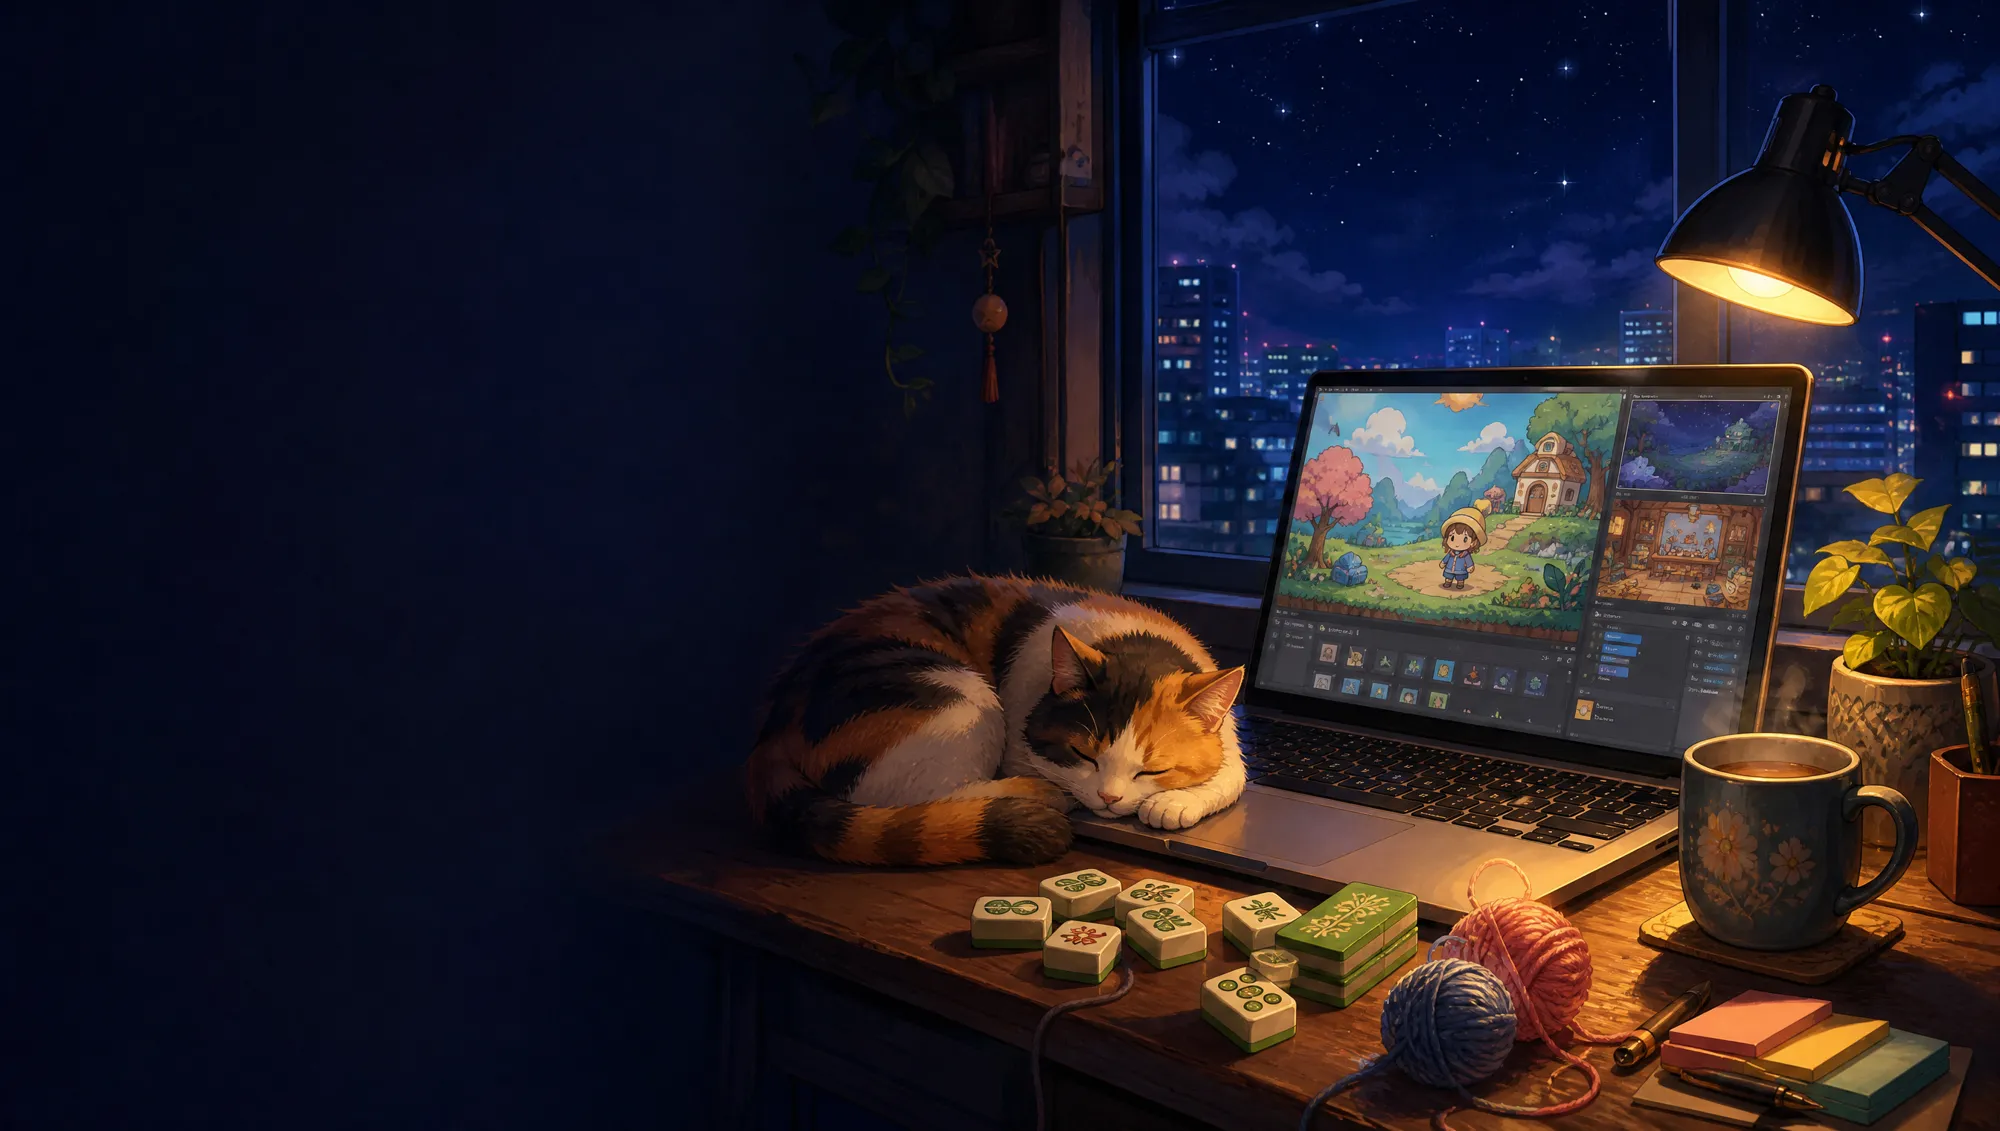
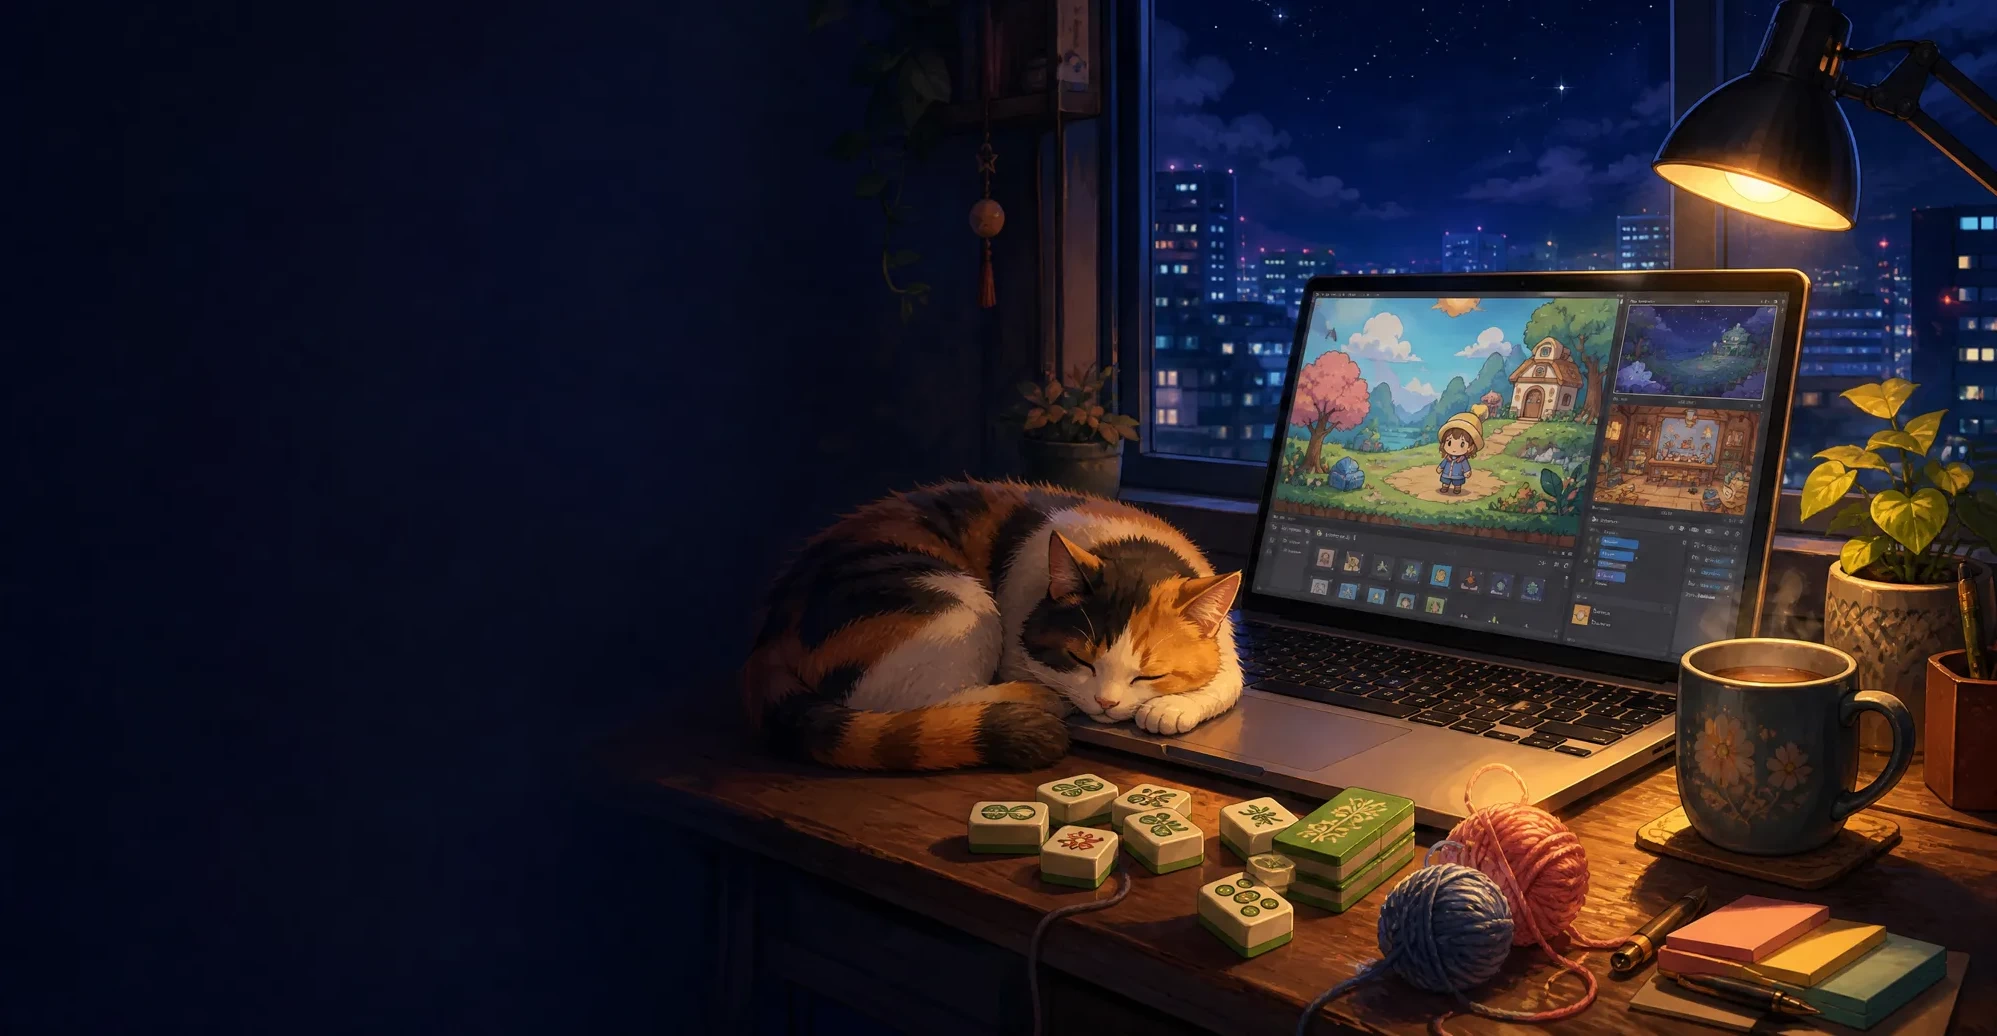
新增「線上免費學習」分頁與多項版面調整
- 新增分頁切換：遊戲與作品 / 線上免費學習（支援 #learn 網址）
- 新增作品：水果盤（主頁）、SQLite 互動學習工具、HTML 網頁發展史（學習頁）
- Git 練功房移到「線上免費學習」
- 切換鈕移到首頁標語上方，移除作品區標題，首頁內容往上移
- 首頁高度配合縮減後的主視覺圖比例
- 麻將塔換成遊戲畫面縮圖
- 關於我按鈕改為「星方向 AI 學院」
- 備份圖檔資料夾不納入版控

Changed region(s): [[0.3415, 0.0, 1.0, 0.9884], [0.683, 0.0927, 0.7141, 0.1544], [0.6209, 0.0, 0.652, 0.0309]]

diff --git a/index.html b/index.html
@@ -54,9 +54,10 @@
 
   /* ---------- 主視覺 ---------- */
   .hero {
-    position: relative; min-height: min(92vh, 820px);
-    display: flex; align-items: center;
-    background: url(images/hero.webp) center right / cover no-repeat, var(--bg-2);
+    /* 高度跟著主視覺圖比例（1997×1036）走，整張圖都看得到；內容較高時會自動撐高 */
+    position: relative; min-height: calc(100vw * 1036 / 1997); padding-block: 0;
+    display: flex; align-items: flex-start;
+    background: url(images/hero.webp?v=2) right top / cover no-repeat, var(--bg-2);
     overflow: hidden;
   }
   .hero::before {
@@ -65,7 +66,7 @@
       linear-gradient(90deg, rgba(15,16,36,.92) 0%, rgba(15,16,36,.65) 38%, rgba(15,16,36,0) 70%),
       linear-gradient(0deg, var(--bg) 0%, rgba(15,16,36,0) 28%);
   }
-  .hero .wrap { position: relative; padding-block: 120px 80px; }
+  .hero .wrap { position: relative; padding-block: 96px 80px; }
   .hero-img { display: none; }
   .hero-text { max-width: 540px; }
   .eyebrow {
@@ -98,18 +99,23 @@
 
   /* ---------- 作品區 ---------- */
   section { padding-block: 80px; scroll-margin-top: 40px; }
-  .sec-head { display: flex; flex-wrap: wrap; align-items: end; justify-content: space-between; gap: 20px; margin-bottom: 36px; }
-  .sec-head h2 { font-family: "Huninn", sans-serif; font-weight: 400; font-size: clamp(1.8rem, 4vw, 2.4rem); margin: 0; line-height: 1.3; }
-  .sec-head p { margin: 4px 0 0; color: var(--muted); }
-  .filters { display: flex; flex-wrap: wrap; gap: 8px; }
-  .filters button {
-    font: inherit; font-size: .92rem; cursor: pointer;
-    padding: 8px 18px; border-radius: 99px;
-    border: 1px solid var(--line); background: var(--bg-2); color: var(--muted);
-    transition: all .2s;
+  /* 分頁切換 */
+  .tabs {
+    display: inline-flex; gap: 6px; padding: 6px; margin-bottom: 24px;
+    background: var(--bg-2); border: 1px solid var(--line); border-radius: 99px;
   }
-  .filters button:hover { color: var(--text); }
-  .filters button.on { background: var(--text); color: var(--bg); border-color: var(--text); }
+  .tabs button {
+    font: inherit; font-size: 1rem; font-weight: 700; cursor: pointer;
+    padding: 11px 24px; border-radius: 99px; border: 0;
+    background: transparent; color: var(--muted);
+    transition: background .25s, color .25s, box-shadow .25s;
+  }
+  .tabs button:hover { color: var(--text); }
+  .tabs button[aria-selected="true"] {
+    background: linear-gradient(135deg, var(--accent), #ff6f7d); color: #fff;
+    box-shadow: 0 8px 22px -10px rgba(255,111,125,.9);
+  }
+  .nav nav a.on { color: var(--text); }
 
   .grid { display: grid; grid-template-columns: repeat(2, 1fr); gap: 28px; }
   .card {
@@ -181,12 +187,19 @@
     .hero { display: block; min-height: 0; background: var(--bg); }
     .hero::before { display: none; }
     .hero-img { display: block; position: relative; }
-    .hero-img img { width: 100%; aspect-ratio: 4 / 3; object-fit: cover; object-position: 62% center; }
+    .hero-img img { width: 100%; aspect-ratio: 4 / 3; object-fit: cover; object-position: 95% center; }
     .hero-img::after { content: ""; position: absolute; inset: 0; background: linear-gradient(0deg, var(--bg) 0%, rgba(15,16,36,0) 45%); }
     .hero .wrap { padding-block: 0 24px; margin-top: -48px; }
     .stats { gap: 22px; }
     section { padding-block: 56px; }
     .thumb::after { opacity: 1; transform: none; }
+  }
+  @media (max-width: 520px) {
+    .brand span { display: none; }
+    .nav nav { gap: 14px; }
+    .nav nav a { font-size: .9rem; }
+    .tabs { display: flex; }
+    .tabs button { flex: 1; padding: 10px 8px; font-size: .95rem; }
   }
   @media (max-width: 420px) {
     .skills { grid-template-columns: 1fr; }
@@ -197,9 +210,10 @@
 
 <header class="nav" id="nav">
   <div class="wrap">
-    <a class="brand" href="#top"><i>H</i>Hank 的作品集</a>
+    <a class="brand" href="#top"><i>H</i><span>Hank 的作品集</span></a>
     <nav>
-      <a href="#works">作品</a>
+      <a href="#games" data-tab="game">遊戲與作品</a>
+      <a href="#learn" data-tab="learn">線上免費學習</a>
       <a href="#about">關於</a>
     </nav>
   </div>
@@ -207,14 +221,19 @@
 
 <main id="top">
   <section class="hero">
-    <div class="hero-img"><img src="images/hero.webp" alt="深夜的遊戲開發工作桌，一隻三花貓睡在筆電旁"></div>
+    <div class="hero-img"><img src="images/hero.webp?v=2" alt="深夜的遊戲開發工作桌，一隻三花貓睡在筆電旁"></div>
     <div class="wrap">
       <div class="hero-text reveal">
+        <div class="tabs" role="tablist" aria-label="作品分頁">
+          <button role="tab" data-tab="game" aria-selected="true">🎮 遊戲與作品</button>
+          <button role="tab" data-tab="learn" aria-selected="false">📚 線上免費學習</button>
+        </div>
         <span class="eyebrow">✦ 網頁遊戲 · 互動學習工具</span>
         <h1>打開瀏覽器<br>就能<em>玩</em>的作品</h1>
         <p>我喜歡把點子做成可以直接上手的網頁：從教你學 Git 的互動練功房，到一整群可愛貓咪登場的休閒遊戲，還有能旋轉視角的 3D 麻將塔。</p>
         <div class="actions">
-          <a class="btn" href="#works">看看作品 ↓</a>        </div>
+          <a class="btn" href="#games" data-tab="game">看看作品 ↓</a>
+        </div>
         <div class="stats">
           <div><b id="count">4</b><span>線上作品</span></div>
           <div><b id="games">4</b><span>款遊戲</span></div>
@@ -226,18 +245,6 @@
 
   <section id="works">
     <div class="wrap">
-      <div class="sec-head reveal">
-        <div>
-          <h2>精選作品</h2>
-          <p>點任一張卡片，會在新分頁開啟線上版本</p>
-        </div>
-        <div class="filters" role="group" aria-label="分類篩選">
-          <button class="on" data-f="all">全部</button>
-          <button data-f="game">遊戲</button>
-          <button data-f="learn">教學工具</button>
-        </div>
-      </div>
-
       <div class="grid" id="grid"></div>
     </div>
   </section>
@@ -248,7 +255,7 @@
         <div>
           <h2>關於我</h2>
           <p>我是 Hank，喜歡用網頁技術把想法變成看得到、玩得到的東西。每個作品都是純前端、部署在 GitHub Pages 與 Netlify，手機和電腦都能直接開來玩。</p>
-          <a class="btn" href="https://github.com/HankHsu1969" target="_blank" rel="noopener">到 GitHub 看原始碼 ↗</a>
+          <a class="btn" href="https://www.guidestar.com.tw/" target="_blank" rel="noopener">星方向 AI 學院 ↗</a>
         </div>
         <div class="skills">
           <div class="skill"><b>🎮</b><span>Canvas 2D 遊戲開發</span></div>
@@ -323,10 +330,19 @@
       tech: ["JavaScript", "跑燈動畫", "街機音效"]
     },
     {
+      title: "水果盤",
+      en: "Fruit Machine",
+      cat: "game", tag: "遊戲", color: "#ffb347",
+      img: "images/fruit.webp",
+      url: "https://hankhsu1969.github.io/fruit/",
+      desc: "懷舊三輪水果拉霸機。押注、選擇 1 到 8 條押線後轉動，可以一次全停或用停 1、停 2、停 3 逐輪停下，連成線就依賠率表派彩，還能比大小加倍。附本機紀錄與中獎紀錄，點數僅供娛樂、不具任何價值。",
+      tech: ["JavaScript", "8 條押線", "逐輪停止"]
+    },
+    {
       title: "3D 麻將塔",
       en: "3D Mahjong Tower",
       cat: "game", tag: "遊戲", color: "#8fd3ff",
-      img: "images/3d-game.webp",
+      img: "images/3d-game.webp?v=2",
       url: "https://hankhsu1969.github.io/3D-Game/",
       desc: "立體版麻將接龍。找出兩張相同且可移動的牌消除，可自由旋轉、縮放視角。內建經典烏龜、金字塔、城堡等 4 種牌陣，還有提示、悔棋與洗牌功能。",
       tech: ["Three.js", "3D 視角操作", "4 種牌陣"]
@@ -339,6 +355,24 @@
       url: "https://hankhsu1969.github.io/git-practice/",
       desc: "給初學者的互動式 Git 教學。在網頁終端機輸入指令，就能即時看到「工作目錄 → 暫存區 → 儲存庫」的變化，10 堂關卡從 init、commit 一路練到 branch 與 merge。",
       tech: ["JavaScript", "指令模擬引擎", "Commit 圖視覺化"]
+    },
+    {
+      title: "SQLite 互動學習工具",
+      en: "SQL Playground",
+      cat: "learn", tag: "教學工具", color: "#79b8ff",
+      img: "images/sql-script.webp",
+      url: "https://hankhsu1969.github.io/Sql-Script/",
+      desc: "直接在瀏覽器裡跑真正的 SQLite 資料庫。左側 10 個範例從建表、SELECT、WHERE、ORDER BY、GROUP BY、JOIN，一路到 INSERT、UPDATE、DELETE 與子查詢，點一下就能執行、看結果，也能自己改 SQL 練習。",
+      tech: ["sql.js (WebAssembly)", "SQL 編輯器", "10 個範例查詢"]
+    },
+    {
+      title: "HTML 網頁發展史",
+      en: "History of Web Development",
+      cat: "learn", tag: "圖文教材", color: "#e89a7a",
+      img: "images/html-history.webp",
+      url: "https://hankhsu1969.github.io/html-web-development-history/",
+      desc: "用時間軸看懂網頁三十多年的演進：從 1991 年的純 HTML、CSS、JavaScript、AJAX、jQuery，到 React、Vue、Next.js 與 AI 輔助開發。每個階段都說明解決了什麼問題，並附上可以互動的實際效果與對應程式碼。",
+      tech: ["時間軸圖文", "互動範例", "程式碼對照"]
     }
   ];
 
@@ -361,21 +395,33 @@
   document.getElementById("games").textContent = works.filter(w => w.cat === "game").length;
   document.getElementById("yr").textContent = new Date().getFullYear();
 
-  // 分類篩選；顯示數量為奇數時，最後一張改成寬版
-  const applyFilter = f => {
+  // 分頁：遊戲與作品(game) / 線上免費學習(learn)；顯示數量為奇數時，最後一張改成寬版
+  const tabHash = { game: "#games", learn: "#learn" };
+  const showTab = (tab, scroll, updateHash = true) => {
     const cards = [...grid.querySelectorAll(".card")];
-    cards.forEach(c => c.classList.toggle("hide", f !== "all" && c.dataset.cat !== f));
+    cards.forEach(c => c.classList.toggle("hide", c.dataset.cat !== tab));
     const shown = cards.filter(c => !c.classList.contains("hide"));
     cards.forEach(c => c.classList.remove("wide"));
-    if (shown.length > 1 && shown.length % 2) shown.at(-1).classList.add("wide");
+    if (shown.length % 2) shown.at(-1).classList.add("wide");
+    document.querySelectorAll(".tabs button").forEach(b => b.setAttribute("aria-selected", b.dataset.tab === tab));
+    document.querySelectorAll(".nav nav a[data-tab]").forEach(a => a.classList.toggle("on", a.dataset.tab === tab));
+    if (updateHash) history.replaceState(null, "", tabHash[tab]);
+    if (scroll) document.getElementById("works").scrollIntoView({ behavior: "smooth" });
   };
-  document.querySelectorAll(".filters button").forEach(btn => {
-    btn.addEventListener("click", () => {
-      document.querySelectorAll(".filters button").forEach(b => b.classList.toggle("on", b === btn));
-      applyFilter(btn.dataset.f);
-    });
+  document.querySelectorAll("[data-tab]").forEach(el => el.addEventListener("click", e => {
+    e.preventDefault();
+    showTab(el.dataset.tab, true);
+  }));
+  const startTab = location.hash === "#learn" ? "learn" : "game";
+  showTab(startTab, false, false);
+  // 用 #learn / #games 網址打開時，等網頁載入完（避免瀏覽器又捲回頂端）再捲到作品區
+  if (location.hash === "#learn" || location.hash === "#games") {
+    const toWorks = () => requestAnimationFrame(() => document.getElementById("works").scrollIntoView());
+    document.readyState === "complete" ? toWorks() : addEventListener("load", toWorks, { once: true });
+  }
+  addEventListener("hashchange", () => {
+    if (location.hash === "#learn" || location.hash === "#games") showTab(location.hash === "#learn" ? "learn" : "game", true, false);
   });
-  applyFilter("all");
 
   // 捲動時導覽列加底色
   const nav = document.getElementById("nav");
